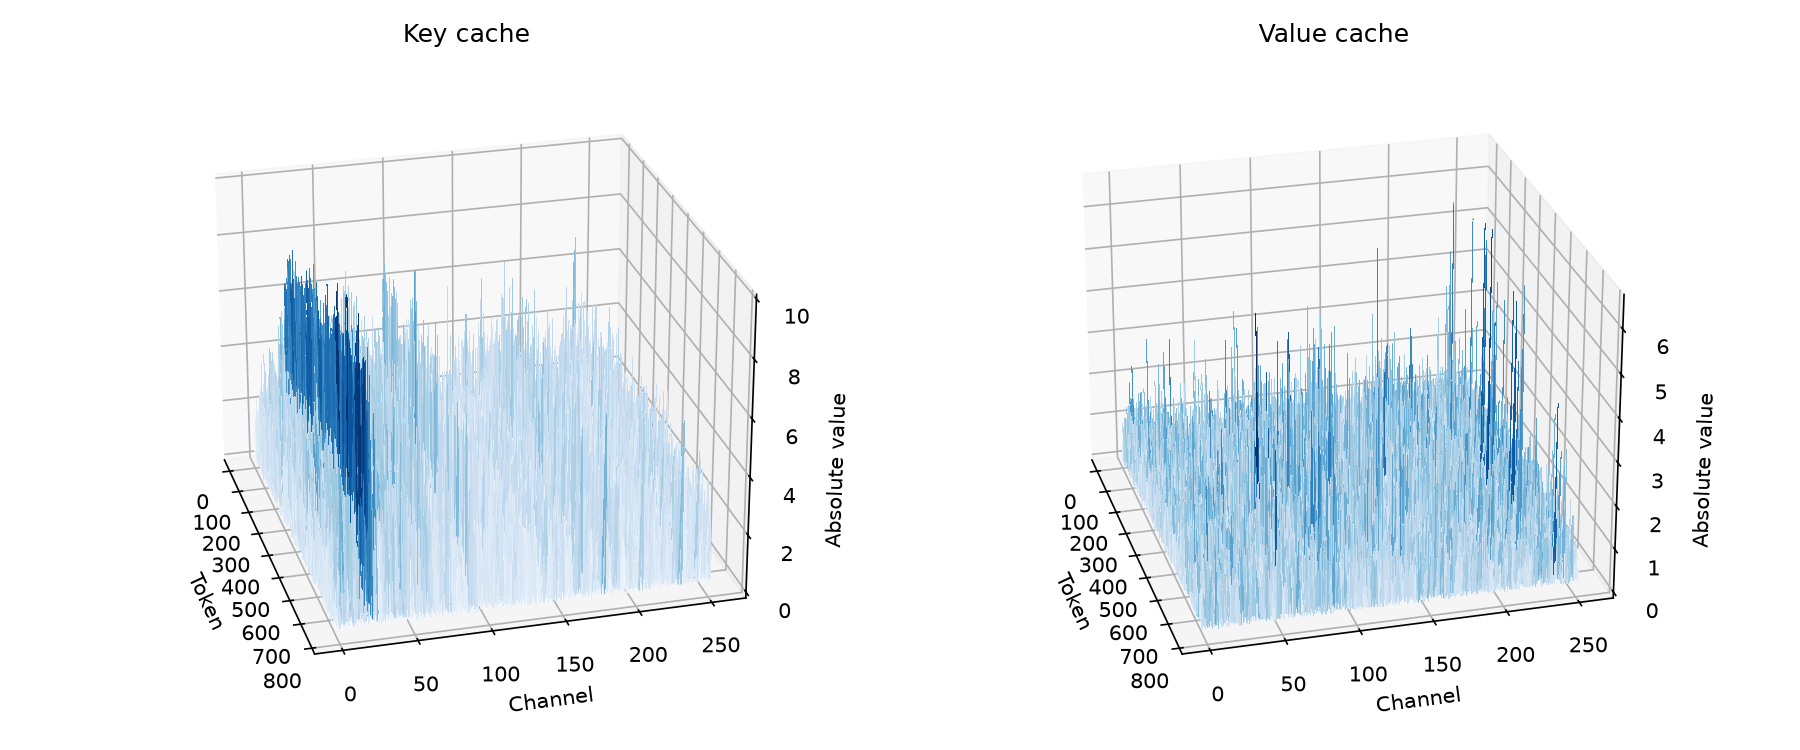
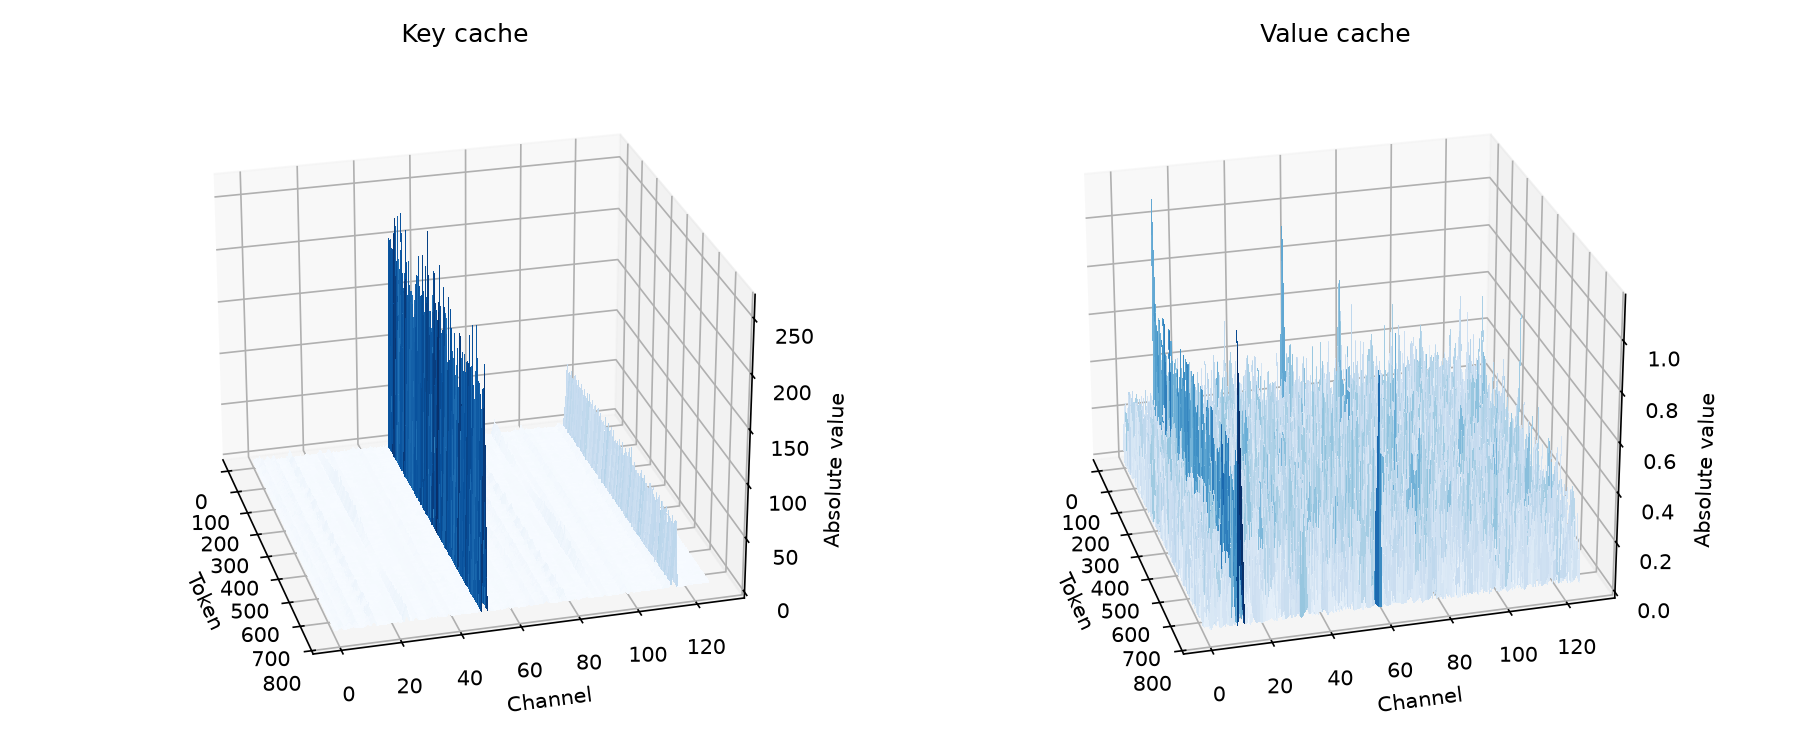
Changed model to Qwen3 and averaged errors

diff --git a/src/quantization/main.py b/src/quantization/main.py
@@ -10,25 +10,46 @@ RESIDUAL_LENGTH = 128
 GROUP_SIZE = 32
 FIGURES_DIR = Path(__file__).resolve().parents[2] / "figures"
 
-data = torch.load(Path(__file__).resolve().parents[2] / "kv_snapshots" / "layer_3.pt")
-synth = Synthesizer()
+data = torch.load(Path(__file__).resolve().parents[2] / "kv_snapshots" / "layer.pt")
+#synth = Synthesizer()
 #Q, K, V = synth.generate()
-Q = data["query"][0, 0, -1:].float().numpy() 
-K = data["keys"][0, 0].float().numpy()
-V = data["values"][0, 0].float().numpy() 
+Q = data["query"]
+K = data["keys"]
+V = data["values"]
+
+print("Saved shapes (layers x (batch, heads, tokens, channels)):")
+for name, layers in data.items():
+    print(f"  {name:<7} {len(layers)} x {tuple(layers[0].shape)}")
 
 quantization_method_map = {
     'channel': per_channel_quantization,
     'token': per_token_quantization
 }
 
-errors_by_method = {}
+avg_errors = {}
 for method, quantization_method in quantization_method_map.items():
-    K_hat = quantization_method(K, bits=2, G=GROUP_SIZE, R=RESIDUAL_LENGTH)
-    V_hat = quantization_method(V, bits=2, G=GROUP_SIZE, R=RESIDUAL_LENGTH)
-    errors_by_method[method] = compute_error_metrics(Q, K, V, K_hat, V_hat)
+    count = 0
+    totals = {}
+    for lay in range(len(K)):
+        group = Q[lay].shape[1] // K[lay].shape[1]                
+        for h in range(K[lay].shape[1]):
+            K_head = K[lay][0, h].float().numpy()
+            V_head = V[lay][0, h].float().numpy()
+            K_hat = quantization_method(K_head, bits=2, G=GROUP_SIZE, R=RESIDUAL_LENGTH)
+            V_hat = quantization_method(V_head, bits=2, G=GROUP_SIZE, R=RESIDUAL_LENGTH)
+            for q in range(h * group, (h + 1) * group):
+                Q_head = Q[lay][0, q, -1:].float().numpy()
+                errors = compute_error_metrics(Q_head, K_head, V_head, K_hat, V_hat)
+                for name, value in errors.items():
+                    totals[name] = totals.get(name, 0) + value
+                count += 1
+    avg_errors[method] = {name: total / count for name, total in totals.items()}
+
+print(f"Average error over {count} query heads:")
+for method, errors in avg_errors.items():
+    print(f"  {method}: " + ", ".join(f"{name} {value:.3f}" for name, value in errors.items()))
 
 FIGURES_DIR.mkdir(exist_ok=True)
-plot_magnitudes(K, V, FIGURES_DIR / "kv_magnitudes.png")
-plot_error_comparison(errors_by_method, FIGURES_DIR / "error_comparison.png")
+plot_magnitudes(K[0][0, 0].float().numpy(), V[0][0, 0].float().numpy(), FIGURES_DIR / "kv_magnitudes.png")
+plot_error_comparison(avg_errors, FIGURES_DIR / "error_comparison.png")
 print(f"Saved figures to {FIGURES_DIR}")

diff --git a/src/inference/pull_cache.py b/src/inference/pull_cache.py
@@ -1,22 +1,22 @@
-from transformers import AttentionInterface, AutoModelForImageTextToText, AutoTokenizer, BatchEncoding
+from transformers import AttentionInterface, AutoModelForCausalLM, AutoTokenizer, BatchEncoding
 from transformers.integrations.sdpa_attention import sdpa_attention_forward
 from pathlib import Path
 import torch
 
-captured = {}
 
+QKVs = {"query": [], "keys": [], "values": []}
 
 
 def capture_attention(module, query, key, value, attention_mask, **kwargs):
-    if module.layer_idx == 3:
-        captured["query"] = query.detach().cpu()
+    if module.layer_idx == len(QKVs["query"]):
+        QKVs["query"].append(query.detach().cpu())
     return sdpa_attention_forward(module, query, key, value, attention_mask, **kwargs)
 
 
 AttentionInterface.register("capture", capture_attention)
 
-model = AutoModelForImageTextToText.from_pretrained("Qwen/Qwen3.5-0.8B", dtype="auto", device_map="auto", attn_implementation="capture")
-tokenizer = AutoTokenizer.from_pretrained("Qwen/Qwen3.5-0.8B")
+model = AutoModelForCausalLM.from_pretrained("Qwen/Qwen3-1.7B", dtype="auto", device_map="auto", attn_implementation="capture")
+tokenizer = AutoTokenizer.from_pretrained("Qwen/Qwen3-1.7B")
 
 assert tokenizer
 
@@ -79,14 +79,18 @@ print("prompt tokens:", inputs["input_ids"].shape[1])
 
 with torch.no_grad():
     outputs = model(**inputs, use_cache=True)
+    
 
-layer = outputs.past_key_values.layers[3]
+for layer in outputs.past_key_values.layers:
+
+    QKVs["keys"].append(layer.keys.cpu())
+    QKVs["values"].append(layer.values.cpu())
 
 output_dir = Path(__file__).resolve().parents[2] / "kv_snapshots"
 output_dir.mkdir(exist_ok=True)
 
 torch.save(
-    {"query": captured["query"], "keys": layer.keys.cpu(), "values": layer.values.cpu()},
-    output_dir / "layer_3.pt",
+    QKVs,
+    output_dir / "layer.pt",
 )
-print(f"Saved Q/K/V to {output_dir / 'layer_3.pt'}")
+print(f"Saved Q/K/V to {output_dir / 'layer.pt'}")
